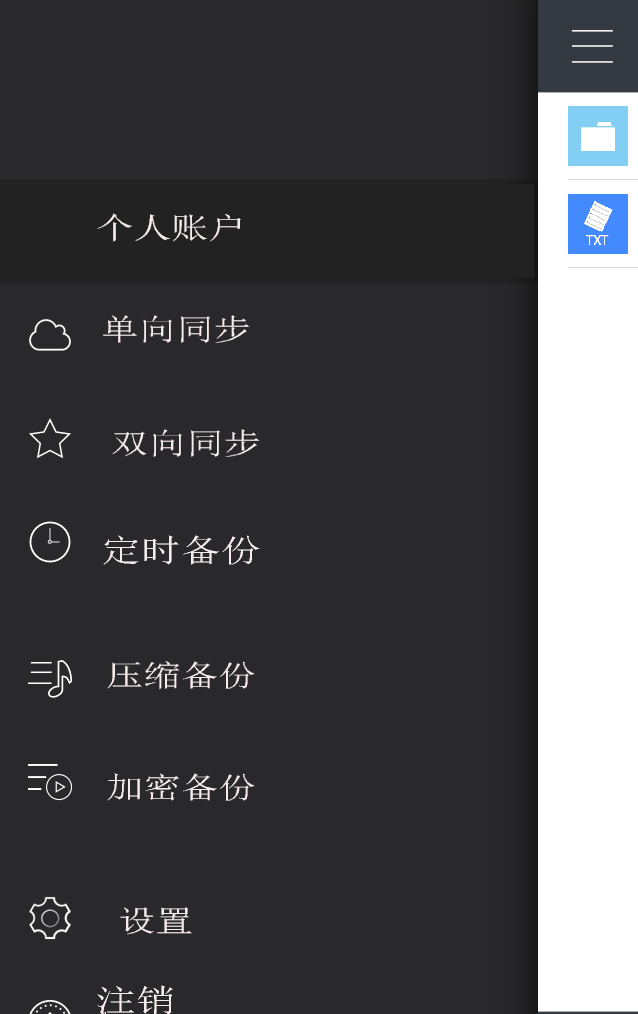
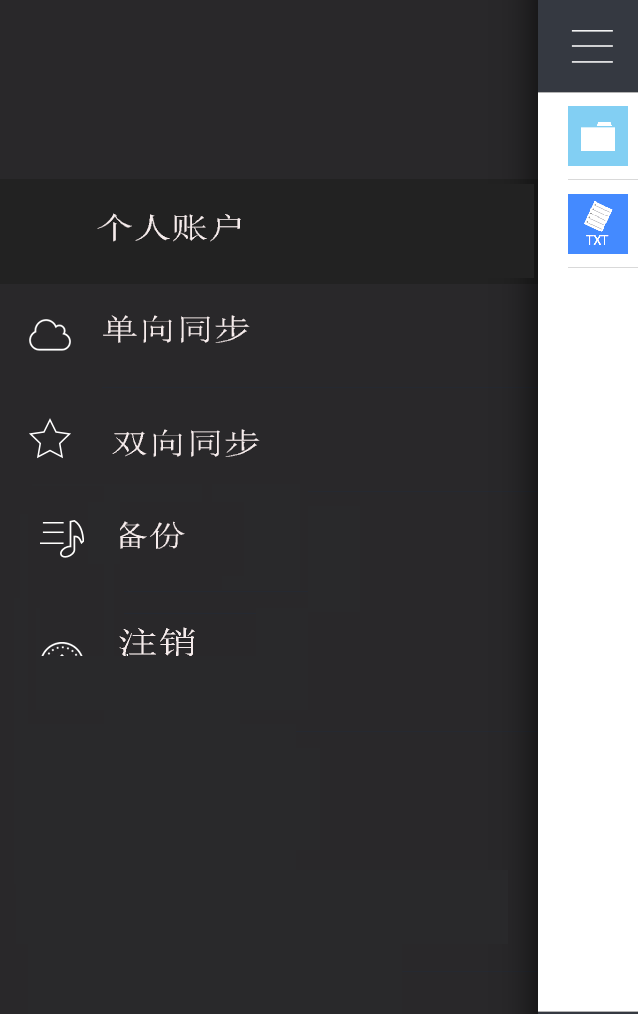
add some thing to index and login page

diff --git a/开发/最初的界面搭建/mainpage.html b/开发/最初的界面搭建/mainpage.html
@@ -1,0 +1,74 @@
+<!doctype html>
+<html class="no-js">
+<head>
+  <meta charset="utf-8">
+  <meta http-equiv="X-UA-Compatible" content="IE=edge">
+  <meta name="description" content="">
+  <meta name="keywords" content="">
+  <meta name="viewport" content="width=device-width, initial-scale=1">
+  <title>我的文件</title>
+  <link rel="stylesheet" href="assets/css/amazeui.min.css">
+  <link rel="stylesheet" href="assets/css/app.css">
+  <link rel="stylesheet" href="assets/css/rzc.css">
+</head>
+<body>
+<!--在这里编写你的代码-->
+  <!-- 标题栏 -->
+  <div class="am-btn am-btn-primary am-btn-block" data-am-sticky="{animation: 'slide-top'}">
+        <!-- <button class="am-btn am-btn-success am-btn-block">固定到顶部动画效果</button> -->
+        <a class="rzc_button1" href="#doc-oc-demo1" data-am-offcanvas>
+            &nbsp;&nbsp;
+            <i class="am-icon-cog"></i> 设置
+        </a>
+        <a style="color:white">文件</a>
+        <a style="color:white">          
+          <div class="am-dropdown" style="float: right;" data-am-dropdown>
+            <span class="am-icon-plus am-dropdown-toggle" data-am-dropdown-toggle>&nbsp;&nbsp;&nbsp;&nbsp;</span>
+            <ul class="am-dropdown-content">
+              <li class="am-dropdown-header">上传</li>
+              <li><a href="#">添加文件夹</a></li>
+              <li class="am-active"><a href="#">添加文件</a></li>              
+              <li class="am-disabled"><a href="#">添加图片</a></li>
+              <li class="am-divider"></li>
+              <li><a href="#">添加代码</a></li>
+            </ul>
+          </div>          
+          <span style="float: right;" class="am-icon-search">&nbsp;&nbsp;&nbsp;&nbsp;</span>          
+          <span style="float: right;">编辑&nbsp;&nbsp;&nbsp;&nbsp;</span>                  
+        </a>        
+  </div>
+  
+  <!-- 侧边栏内容 -->
+  <div id="doc-oc-demo1" class="am-offcanvas">
+    <div class="am-offcanvas-bar">
+      <div class="rzc_slider_div" style="width:100%;height:20%">
+       <img src="assets\img\login.jpg" alt="">
+      </div>
+      <ul class="am-list rzc_slider_ul">
+        <li><a href="#">个人账户</a></li>
+        <li><a href="#">单向同步</a></li>
+        <li><a href="#">双向同步</a></li>
+        <li><a href="#">备份</a></li>
+        <li><a href="#">注销</a></li>
+      </ul>
+    </div>    
+  </div>
+  <div class="am-list" >
+    <ul class="am-list">
+      <li><a href="#">&nbsp;&nbsp;<i class="am-icon-folder"></i> &nbsp;&nbsp;Folder1</a></li>
+      <li><a href="#">&nbsp;&nbsp;<i class="am-icon-folder"></i> &nbsp;&nbsp;Folder2</a></li>
+      <li><a href="#">&nbsp;&nbsp;<i class="am-icon-file"></i> &nbsp;&nbsp;File1</a></li>
+      <li><a href="#">&nbsp;&nbsp;<i class="am-icon-file"></i> &nbsp;&nbsp;File2</a></li>    
+    </ul>
+  </div>
+<!--[if (gte IE 9)|!(IE)]><!-->
+<script src="assets/js/jquery.min.js"></script>
+<!--<![endif]-->
+<!--[if lte IE 8 ]>
+<script src="http://libs.baidu.com/jquery/1.11.3/jquery.min.js"></script>
+<script src="http://cdn.staticfile.org/modernizr/2.8.3/modernizr.js"></script>
+<script src="assets/js/amazeui.ie8polyfill.min.js"></script>
+<![endif]-->
+<script src="assets/js/amazeui.min.js"></script>
+</body>
+</html>

diff --git a/开发/最初的界面搭建/login.html b/开发/最初的界面搭建/login.html
@@ -1,0 +1,71 @@
+<!DOCTYPE html>
+<html>
+<head lang="en">
+  <meta charset="UTF-8">
+  <title>登录</title>
+  <meta http-equiv="X-UA-Compatible" content="IE=edge">
+  <meta name="viewport" content="width=device-width, initial-scale=1">
+  <meta name="format-detection" content="telephone=no">
+  <meta name="renderer" content="webkit">
+  <meta http-equiv="Cache-Control" content="no-siteapp" />
+  <link rel="alternate icon" type="image/png" href="assets/i/favicon.png">
+  <link rel="stylesheet" href="assets/css/amazeui.min.css"/>
+  <link rel="stylesheet" href="assets/css/rzc.css"/>
+  <style>
+    .header {
+      text-align: center;
+    }
+    .header h1 {
+      font-size: 200%;
+      color: #333;
+      margin-top: 30px;
+    }
+    .header p {
+      font-size: 14px;
+    }
+  </style>
+</head>
+<body>
+<div style="width:100%;  z-index:-1"><img style="position:fixed;" src="assets/img/back.jpg" height="100%" width="100%"> </div>
+<div class="header">
+  <div class="am-g">
+    <!-- <h1>FileSB</h1> -->
+    <!-- <p>Integrated Development Environment<br/>代码编辑，代码生成，界面设计，调试，编译</p> -->
+  </div>
+  <hr />
+</div>
+<div class="am-g">
+  <div class="am-u-lg-6 am-u-md-8 am-u-sm-centered">
+    <h2>FileSB</h2>
+    <!-- <hr> -->
+    <!-- <div class="am-btn-group">
+      <a href="#" class="am-btn am-btn-secondary am-btn-sm"><i class="am-icon-github am-icon-sm"></i> Github</a>
+      <a href="#" class="am-btn am-btn-success am-btn-sm"><i class="am-icon-google-plus-square am-icon-sm"></i> Google+</a>
+      <a href="#" class="am-btn am-btn-primary am-btn-sm"><i class="am-icon-stack-overflow am-icon-sm"></i> stackOverflow</a>
+    </div> -->
+    <br>
+    <br>
+
+    <form method="post" class="am-form">
+      <label for="email">邮箱:</label>
+      <input type="email" name="" id="email" value="" style="border:0px; border-bottom:1px solid #000;background-color:transparent">
+      <br>
+      <label for="password">密码:</label>
+      <input type="password" name="" id="password" value="" style="border:0px; border-bottom:1px solid #000; background-color:transparent">
+      <br>
+      <label for="remember-me">
+        <input id="remember-me" type="checkbox">
+        记住密码
+      </label>
+      <br />
+      <div class="am-cf">
+        <input type="submit" name="" value="登 录" class="am-btn am-btn-primary am-btn-sm am-fl">
+        <input type="submit" name="" value="忘记密码 ^_^? " class="am-btn am-btn-default am-btn-sm am-fr">
+      </div>
+    </form>
+    <hr>
+    <p>© 2017 AllMobilize, Inc. Licensed under MIT license.</p>
+  </div>
+</div>
+</body>
+</html>

diff --git a/开发/最初的界面搭建/assets/css/rzc.css b/开发/最初的界面搭建/assets/css/rzc.css
@@ -1,6 +1,27 @@
  /* css write by Ren Zhenchuan */
+ /* mainpage */
 .rzc_button1{
 	float:left;
 	text-align: left; 
 	color:white;
 }
+.rzc_slider_ul>li{
+	letter-spacing: 4px;
+	background-color:#333;
+}
+.rzc_slider_ul>li>a{
+	text-align:-webkit-center;
+	color: #fff;
+}
+.rzc_slider_div{
+	/* vertical-align: middle; */
+	text-align: center;
+}
+.rzc_slider_div>img{
+	border-radius: 50%;
+	/* background-image:url('../img/login.jpg'); */
+	width: 40%;
+	height: 60%;
+	margin-top: 10%;
+}
+/* 注册界面 */
